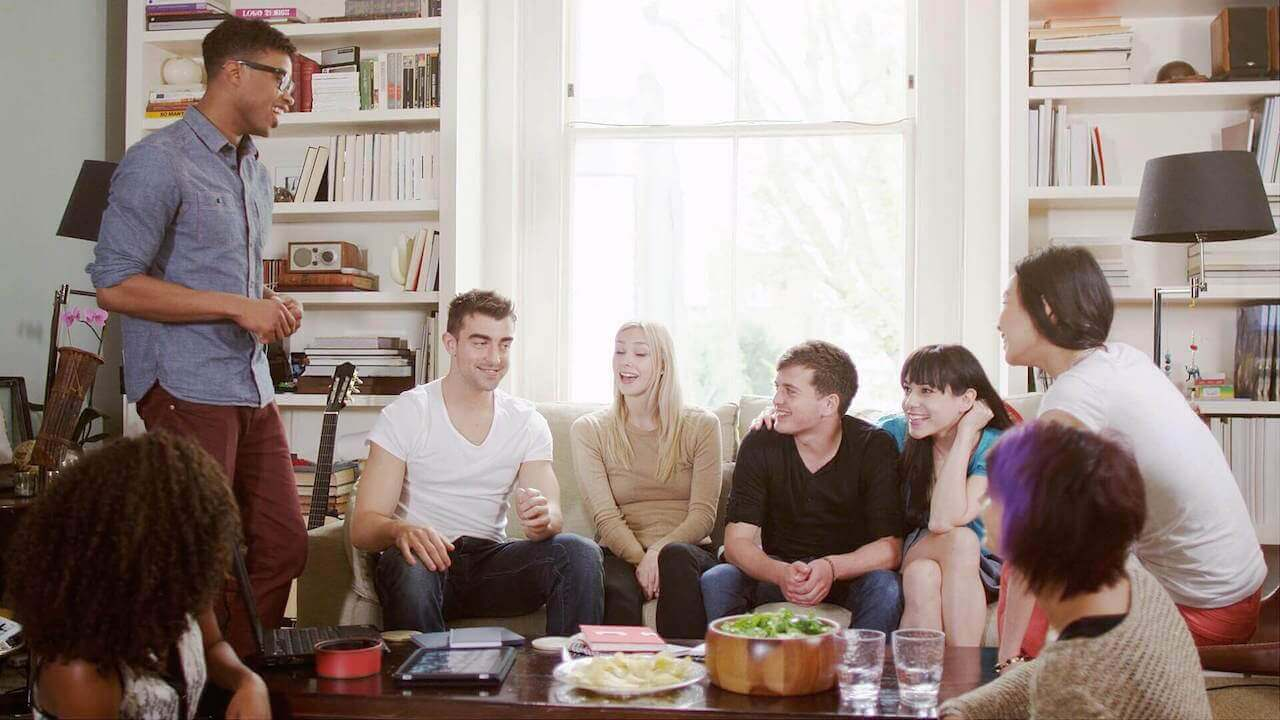
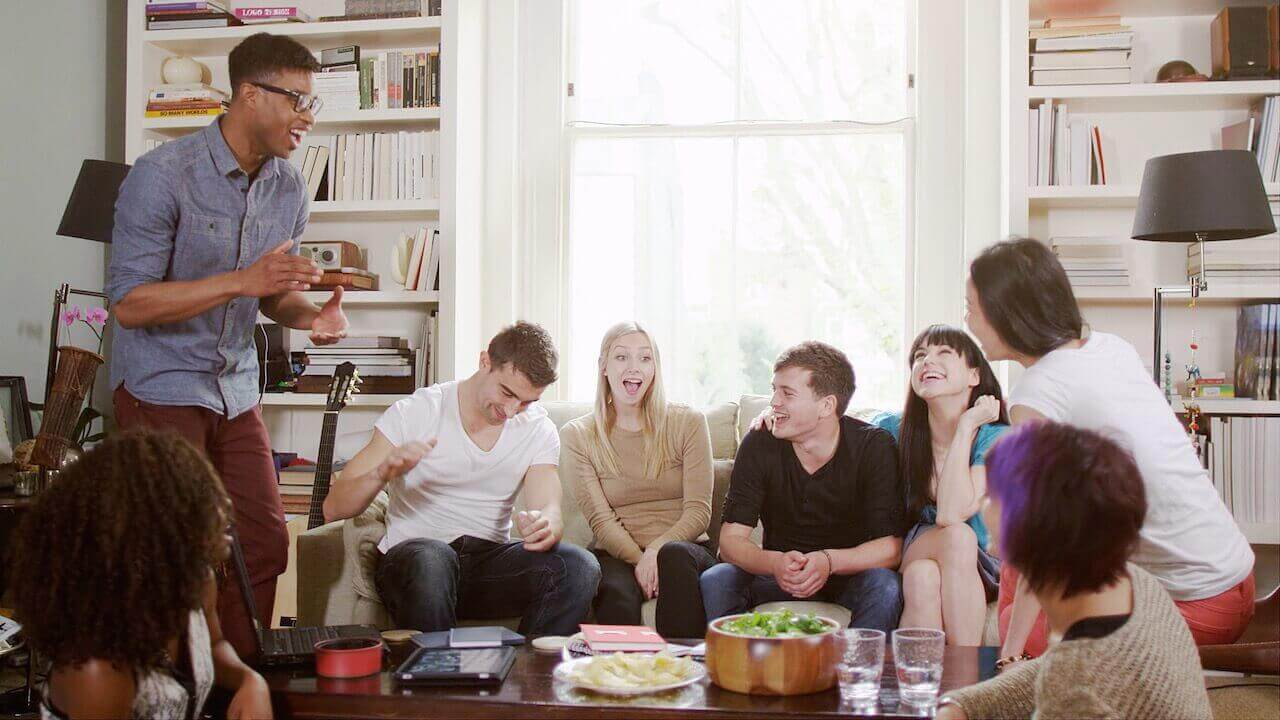
Changed static image of main landing page

diff --git a/client/app/landing/howitworks.html b/client/app/landing/howitworks.html
@@ -8,8 +8,8 @@
       <h3>Coming Soon</h3>
     </div>
     <video autoplay loop class="fillWidth">
-      <source src="././../assets/videos/keyboard/keyboard.mp4" type="video/mp4" />Your browser does not support the video tag. I suggest you upgrade your browser.
-      <source src="././../assets/videos/keyboard/keyboard.webm" type="video/webm" />Your browser does not support the video tag. I suggest you upgrade your browser.
+      <source src="././../assets/videos/keyboard/keyboard.webm" type="video/webm" />
+      <source src="././../assets/videos/keyboard/keyboard.mp4" type="video/mp4" />
     </video>
     <div class="poster hidden">
       <img src="././../assets/videos/keyboard/keyboard.jpg" alt="Chat with your university services">

diff --git a/client/app/app.css b/client/app/app.css
@@ -160,7 +160,7 @@ Main image and style for above the fold on the home-page
   background:linear-gradient(
     rgba(0, 0, 0, 0.35),
     rgba(0, 0, 0, 0.35)
-  ), url(../assets/images/jumbotron/students.jpg);
+  ), url(../assets/videos/students/students.jpg);
   background-repeat: no-repeat;
   background-size: cover;
   height: 800px;

diff --git a/client/app/account/login/login.css b/client/app/account/login/login.css
@@ -124,7 +124,7 @@ label + label {
   background:linear-gradient(
     rgba(0, 0, 0, 0.35),
     rgba(0, 0, 0, 0.35)
-  ), url(../../../assets/images/jumbotron/students.jpg);
+  ), url(../../../assets/videos/students/students.jpg);
   background-size: cover;
   padding-bottom: 50px;
   height: 800px;
